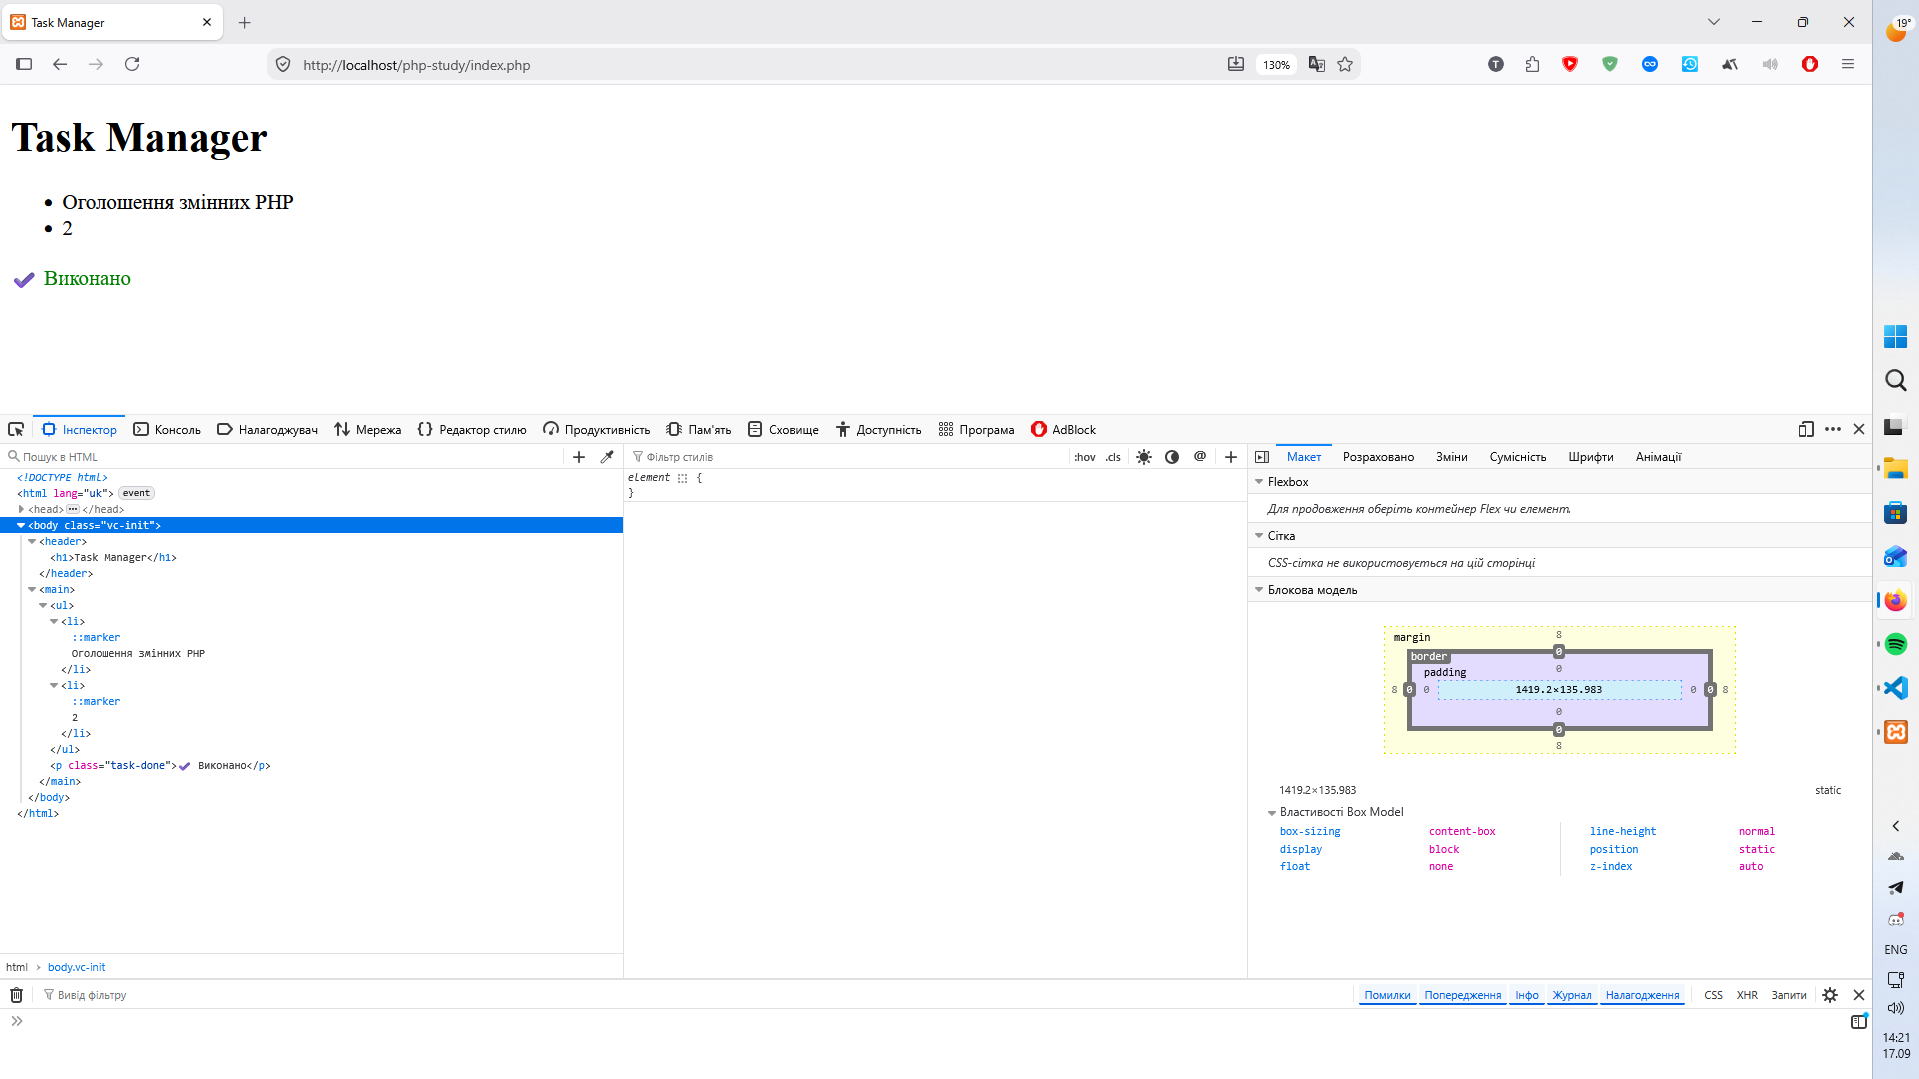
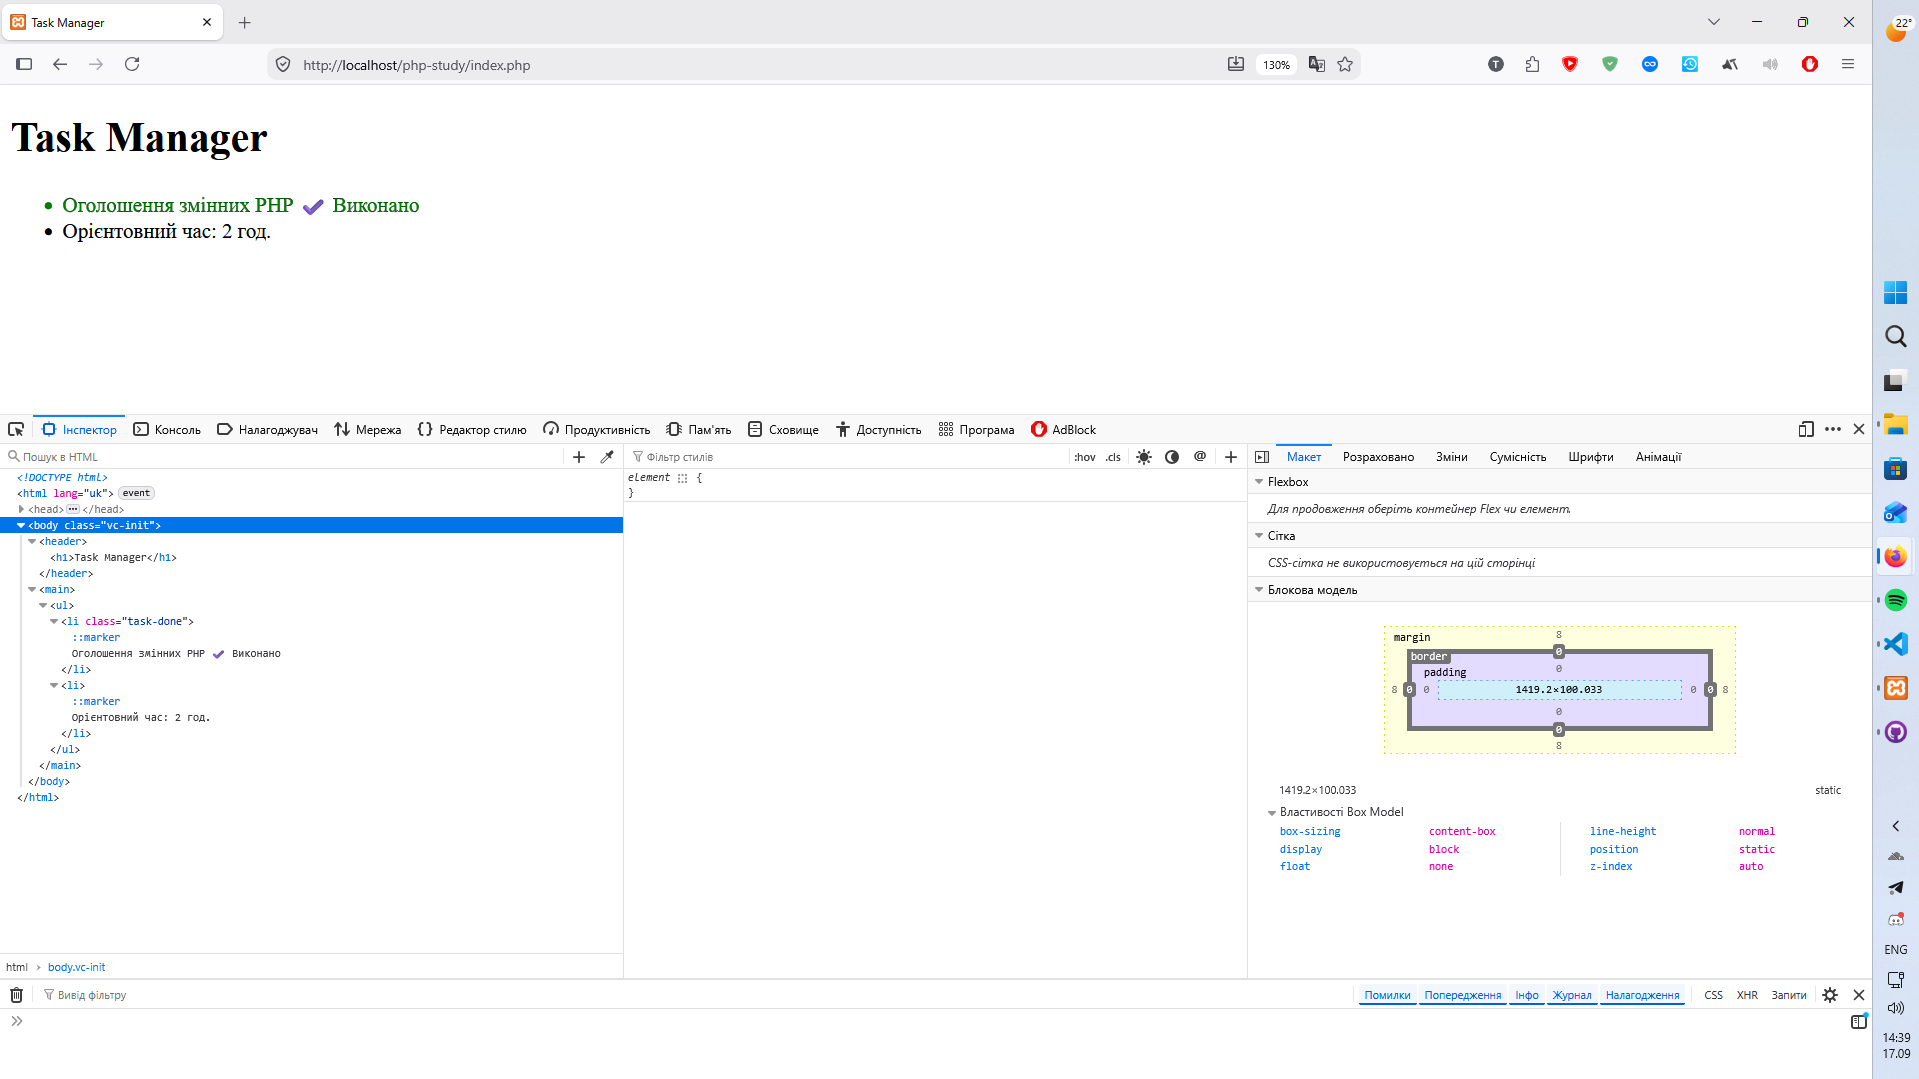
fix lab3

diff --git a/index.php b/index.php
@@ -17,8 +17,7 @@ $isCompleted = true;
     <style>
         .task-done {
             color: green;
-            outline: 1px;
-            outline-color: black;
+            -webkit-text-stroke: 0.1px black;
         }
         .task-pending {
             color: gray;
@@ -31,10 +30,16 @@ $isCompleted = true;
     </header>
     <main>
         <ul>
-            <li><?= $taskTitle ?></li>
-            <li><?= $taskTimeEstimate ?></li>
+            <li class="<?= $isCompleted ? 'task-done' : 'task-pending' ?>">
+                <?= $taskTitle ?> 
+                <?php if ($isCompleted): ?>
+                    ✔ Виконано
+                <?php else: ?>
+                    🕒 В процесі
+                <?php endif; ?>
+            </li>
+            <li>Орієнтовний час: <?= $taskTimeEstimate ?> год.</li>
         </ul>
-        <p class="<?= $isCompleted ? 'task-done' : 'task-pending' ?>"><?php if ($isCompleted): ?>✔ Виконано<?php else: ?>🕒 В процесі<?php endif; ?></p>
     </main>
 </body>
 </html>

diff --git a/lab3.md b/lab3.md
@@ -21,8 +21,7 @@ $isCompleted = true;
     <style>
         .task-done {
             color: green;
-            outline: 1px;
-            outline-color: black;
+            -webkit-text-stroke: 0.1px black;
         }
         .task-pending {
             color: gray;
@@ -35,14 +34,19 @@ $isCompleted = true;
     </header>
     <main>
         <ul>
-            <li><?= $taskTitle ?></li>
-            <li><?= $taskTimeEstimate ?></li>
+            <li class="<?= $isCompleted ? 'task-done' : 'task-pending' ?>">
+                <?= $taskTitle ?> 
+                <?php if ($isCompleted): ?>
+                    ✔ Виконано
+                <?php else: ?>
+                    🕒 В процесі
+                <?php endif; ?>
+            </li>
+            <li>Орієнтовний час: <?= $taskTimeEstimate ?> год.</li>
         </ul>
-        <p class="<?= $isCompleted ? 'task-done' : 'task-pending' ?>"><?php if ($isCompleted): ?>✔ Виконано<?php else: ?>🕒 В процесі<?php endif; ?></p>
     </main>
 </body>
 </html>
-
 
 ```
 ![Фото для звіту](screenshot3.png)
